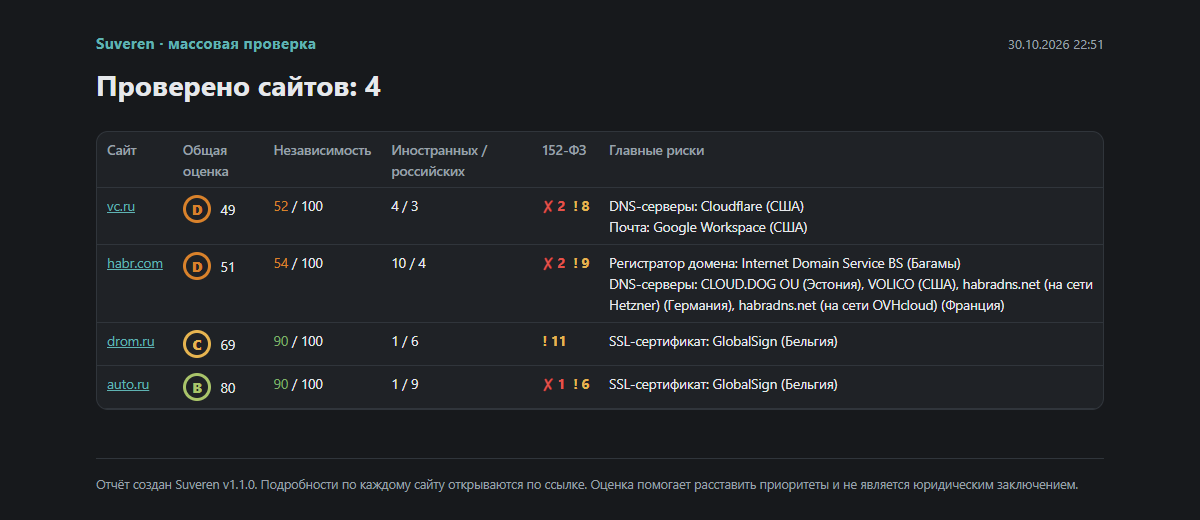
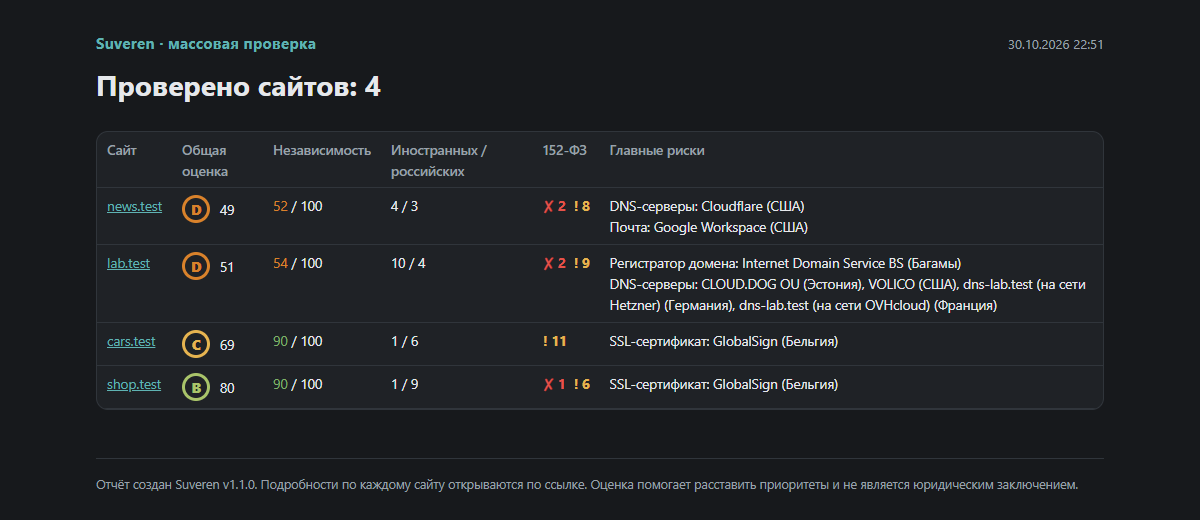
Show made-up sites in the README pictures
The terminal, report, 152-FZ and batch pictures named real companies next to
grades and possible fines. They now show lab.test and neighbours in the
reserved .test zone: the same audit data with names, addresses and IPs
replaced (RFC 6761, 5737, 5398). The README says so under the first picture.

diff --git a/CHANGELOG.md b/CHANGELOG.md
@@ -5,7 +5,9 @@
 - **Новое описание и картинки.** README стал коротким: что проверяется, как запустить (exe,
   `Suveren.bat`, pip, Docker), отчёт, команды и главные параметры. Подробности по каждой проверке
   переехали в [docs/guide.md](docs/guide.md). Картинки пересняты на версии 1.1: терминал, меню,
-  отчёт, раздел 152-ФЗ, проверка компании и сводка, у каждой — светлый и тёмный вариант.
+  отчёт, раздел 152-ФЗ, проверка компании и сводка, у каждой — светлый и тёмный вариант. Сайты на
+  картинках выдуманные (`lab.test` и соседи в зоне `.test`): данные настоящих проверок с
+  заменёнными именами, адресами и IP, чтобы не показывать чужие компании.
 - **Сводка `batch`: имя сайта и счётчики 152-ФЗ не переносятся посередине** («habr.c om»), а
   в терминале — «4 сайта», а не «4 сайтов».
 

diff --git a/README.md b/README.md
@@ -23,6 +23,9 @@ DNS-записи, открытые реестры и страницы сайта
 
 ![Suveren в терминале](docs/demo.svg)
 
+<sub>На картинках — выдуманные сайты в зарезервированной зоне `.test`: это данные настоящих
+проверок, в которых имена, адреса и IP заменены, чтобы не показывать чужие компании.</sub>
+
 ## Что проверяет
 
 | | Вопрос | Что смотрится |

diff --git a/README.en.md b/README.en.md
@@ -26,6 +26,9 @@ The tool, its reports and the detailed guide are in Russian, as is the law it ch
 
 ![Suveren in a terminal](docs/demo.svg)
 
+<sub>The pictures show made-up sites in the reserved `.test` zone: real audit data with names,
+addresses and IPs replaced, so no real company is shown.</sub>
+
 ## What it checks
 
 | | Question | What is looked at |
